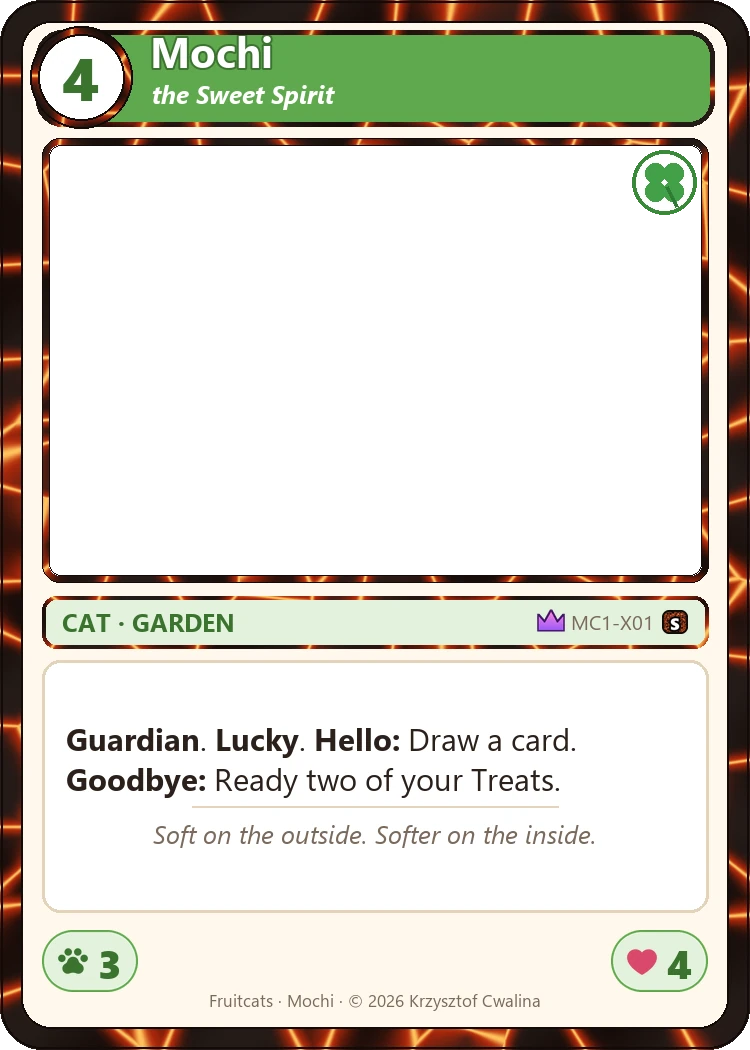
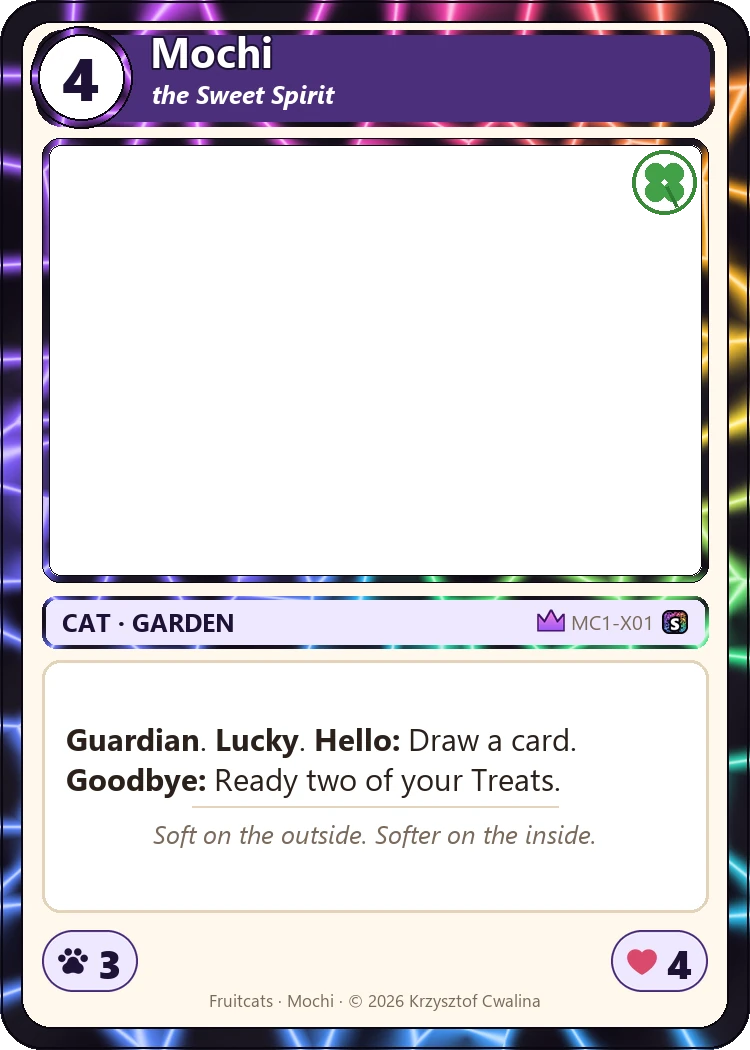
Mochi's Signature print: the Signature stone with rainbow cracks, in night-purple instead of its family's green ("signature": "rainbow")

diff --git a/tools/compose_cards.py b/tools/compose_cards.py
@@ -217,10 +217,13 @@ CHROME = {
     "gold":      (["#fff4c2", "#e8b73a", "#8a5a0c", "#f7d774", "#b07d17", "#fff0b0", "#c89224", "#fff4c2"], "#5a3a04"),
     "prismatic": (RAINBOW, "#3a2a5a"),
     "signature": (["#2a1a15", "#120b09"], "#120b09"),
+    "signature-rainbow": (["#1a1420", "#0b0810"], "#0b0810"),
 }
 # Signature: a set's top card is printed only this way (docs/heat-wave-set.md). Charred black stone with
 # glowing lava cracks running through it. Cards opt in with "signature": true; it's never a default print.
+# "signature": "rainbow" is the same stone with cracks glowing in every colour: Mochi's, the game's own card.
 SIGNATURE = "signature"
+RAINBOW_SIGNATURE = "signature-rainbow"
 _textures: dict = {}
 
 
@@ -242,6 +245,27 @@ def signature_texture(xs, ys):
     return rgb
 
 
+def rainbow_signature_texture(xs, ys):
+    """The Signature stone, darker, with every crack glowing through the rainbow: the colour turns around the card's
+    centre, each crack white-hot in its middle."""
+    import numpy as np
+    rng = np.random.default_rng(7)
+    pts = rng.uniform(0, 1, (170, 2)) * (W, H)
+    d = np.sqrt((xs[..., None] - pts[:, 0]) ** 2 + (ys[..., None] - pts[:, 1]) ** 2)
+    d.sort(axis=-1)
+    edge = d[..., 1] - d[..., 0]
+    core = np.exp(-(edge / 3.0) ** 2)[..., None]
+    glow = np.exp(-(edge / 18) ** 2)[..., None]
+    stone = np.array([22, 17, 28], float) + 12 * np.sin(xs / 37 + np.sin(ys / 53) * 2)[..., None] / 2
+    stops = np.array([Image.new("RGB", (1, 1), c).getpixel((0, 0)) for c in RAINBOW], float)
+    t = (np.arctan2(ys - H / 2, xs - W / 2) / (2 * np.pi) + 0.1 + (xs + ys) / (W + H) * 0.35) % 1.0
+    pos = np.linspace(0, 1, len(stops))
+    hue = np.stack([np.interp(t, pos, stops[:, c]) for c in range(3)], -1)
+    rgb = stone * (1 - glow) + hue * glow
+    rgb = rgb * (1 - core) + (hue * 0.35 + 255 * 0.65) * core
+    return rgb
+
+
 def chrome_texture(finish: str) -> Image.Image:
     """The chrome's material, card-sized. Foil is brushed silver with rainbow flashes running across it at
     another angle; gold is polished bands of gold; prismatic is the rainbow turning around the card's
@@ -259,6 +283,8 @@ def chrome_texture(finish: str) -> Image.Image:
         brushed = (1 + 0.04 * np.sin(ys * 1.9 + np.sin(xs / 23) * 3))[..., None]
         if finish == SIGNATURE:
             rgb = signature_texture(xs, ys)
+        elif finish == RAINBOW_SIGNATURE:
+            rgb = rainbow_signature_texture(xs, ys)
         elif finish == "gold":
             rgb = ramp(CHROME["gold"][0], diagonal * 2) * brushed
         else:
@@ -277,7 +303,8 @@ def chrome_texture(finish: str) -> Image.Image:
 
 
 # A finish's code in the collector line, like the codes on real cards: F(oil), G(old), P(rismatic).
-FINISH_CODES = {"foil": ("F", "#2e3552"), "gold": ("G", "#4a2c02"), "prismatic": ("P", "white"), SIGNATURE: ("S", "white")}
+FINISH_CODES = {"foil": ("F", "#2e3552"), "gold": ("G", "#4a2c02"), "prismatic": ("P", "white"), SIGNATURE: ("S", "white"),
+                RAINBOW_SIGNATURE: ("S", "white")}
 
 
 def finish_tag(img: Image.Image, right: int, cy: int, finish: str) -> int:
@@ -314,7 +341,11 @@ def centered_ink(draw: ImageDraw.ImageDraw, xy: tuple, text: str, f, fill: str, 
 
 def compose(card: dict, side: str | None, art_path: Path | None, finish: str = "standard") -> Image.Image:
     """The card image. With no art_path, the picture's window is left transparent (a frame)."""
+    if finish == SIGNATURE and card.get("signature") == "rainbow":
+        finish = RAINBOW_SIGNATURE     # the rainbow Signature stone, printed where the card's Signature goes
     main, dark, tint = FAMILIES[card["family"]]
+    if finish == RAINBOW_SIGNATURE:    # night-purple, the stone's own colour, so the rainbow is the only colour on the frame
+        main, dark, tint = "#4a2f7a", "#1e1236", "#efe8ff"
     face = card[{"kitten": "kitten", "bigcat": "bigCat"}[side]] if side else card
     name = face["name"]
     text = face.get("text", "")
